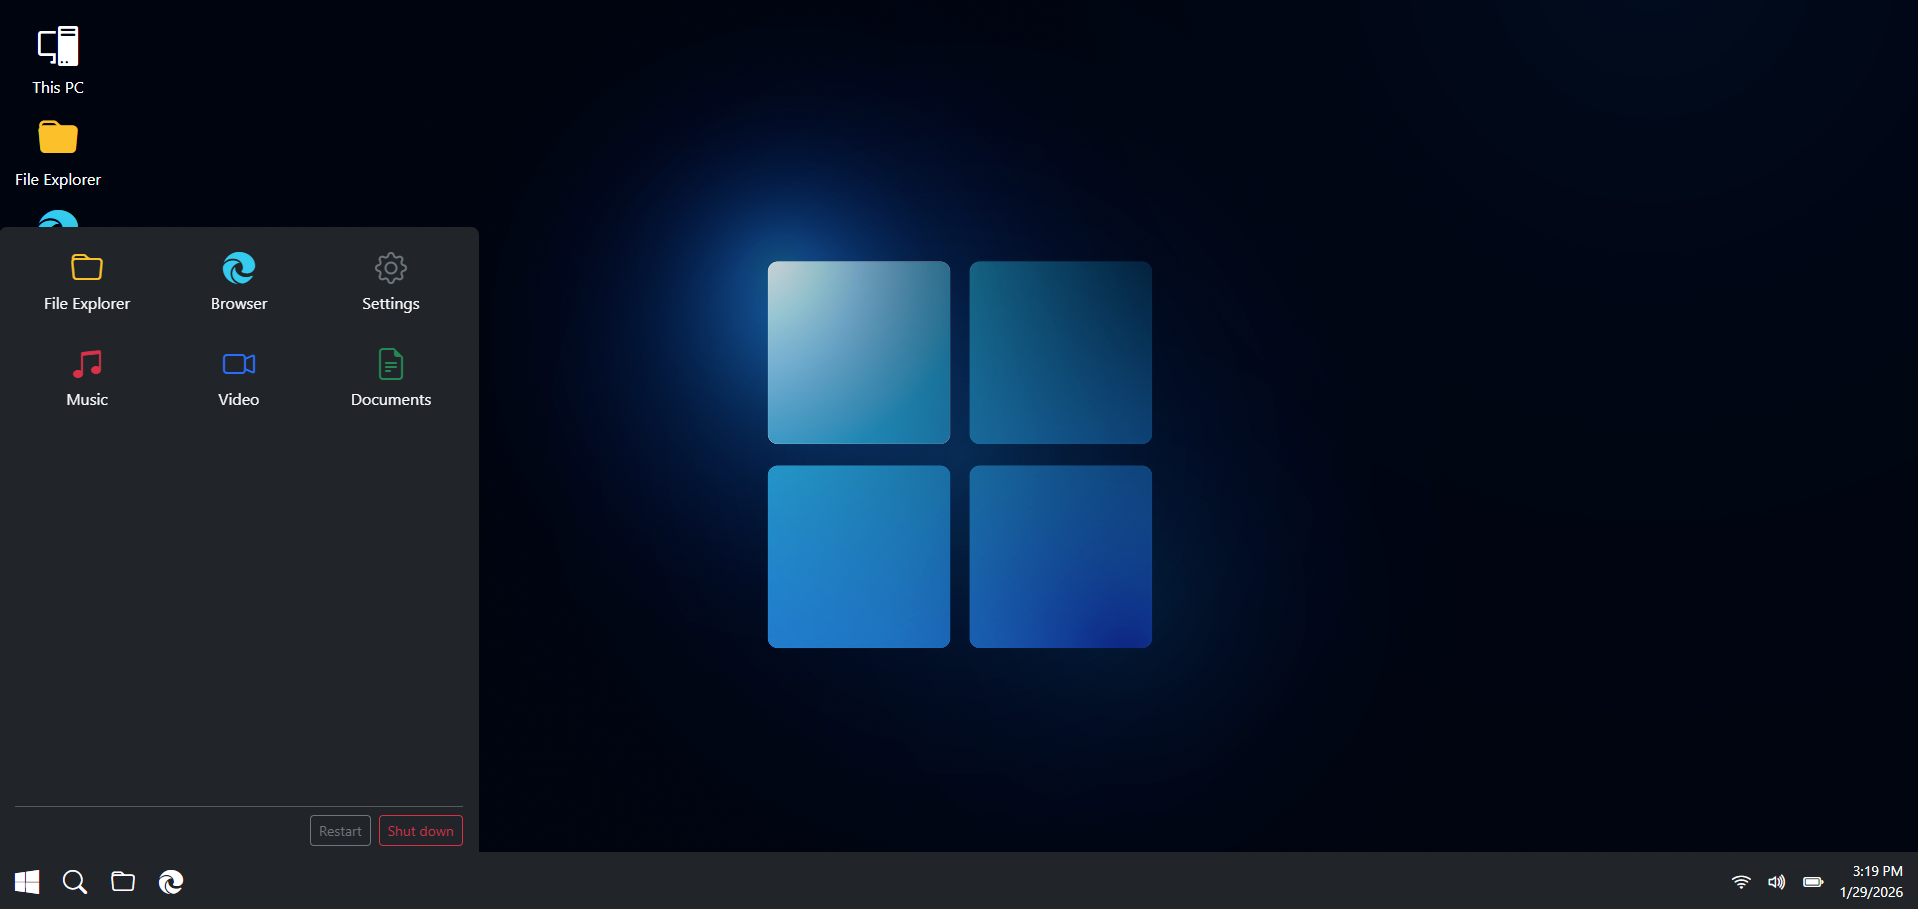
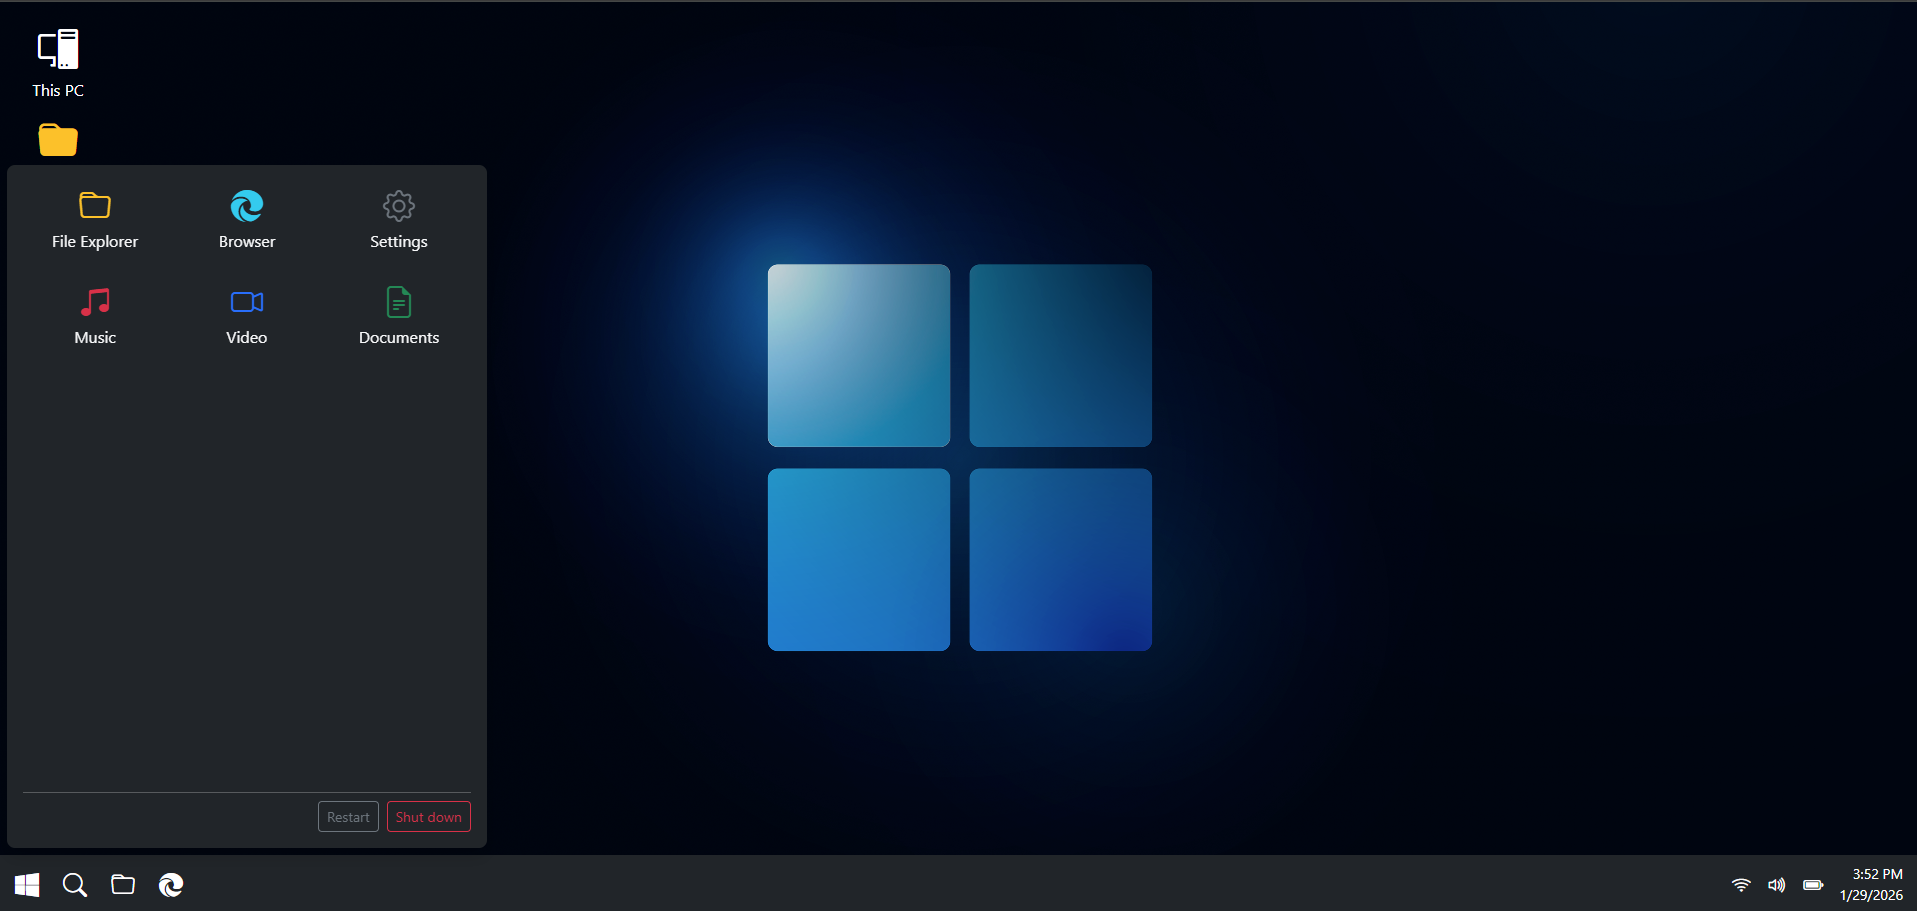
start ss added

diff --git a/index.html b/index.html
@@ -11,20 +11,20 @@
 
 <body style="user-select: none;">
 <div id="desktop"></div>
-<div id="startMenu"></div>
 <div id="taskbar"></div>
+<div id="startMenu"></div>
 <div id="windows"></div>
 
 <script src="https://code.jquery.com/jquery-3.7.1.min.js"></script>
 <script src="assets/scripts/click.js"></script>
-<script src="assets/scripts/start.js"></script>
 <script src="assets/scripts/taskbar.js"></script>
+<script src="assets/scripts/start.js"></script>
 <script src="assets/scripts/browser.js"></script>
 <script src="assets/scripts/music.js"></script>
 <script>
     $("#desktop").load("components/desktop.html");
-    $("#startMenu").load("components/start.html");
     $("#taskbar").load("components/taskbar.html");
+    $("#startMenu").load("components/start.html");
 
     $("#windows").load("components/thisPC.html", function () {
         $("#windows").append($("<div>").load("components/fileExplorer.html"));

diff --git a/components/start.html b/components/start.html
@@ -1,5 +1,5 @@
-<div id="start"
-     class="position-fixed bottom-0 start-0 bg-dark text-light shadow rounded-3 p-3 d-none w-25 h-75 d-flex flex-column justify-content-between">
+<div id="start" style="margin-bottom: 65px;"
+     class="position-fixed bottom-0 start-0 bg-dark text-light shadow rounded-3 p-3 d-none w-25 h-75 d-flex flex-column justify-content-between ms-2">
     <div class="row text-center g-2">
 
         <div class="col app-launch" data-app="explorer">
@@ -35,7 +35,7 @@
         </div>
     </div>
 
-    <div class="mt-auto mb-5">
+    <div class="mt-auto">
         <hr class="my-2">
         <div class="d-flex justify-content-end gap-2">
             <button class="btn btn-sm btn-outline-secondary">Restart</button>

diff --git a/assets/scripts/start.js b/assets/scripts/start.js
@@ -1,9 +1,10 @@
+// open
 $(document).on("click", "#startBtn", function (e) {
     e.stopPropagation();
-    $("#start").toggleClass("d-none");
+    $("#start").css("z-index", 99999).toggleClass("d-none");
 });
 
-// click outside to close
+// close
 $(document).on("click", function (e) {
     if (!$(e.target).closest("#start, #startBtn").length) {
         $("#start").addClass("d-none");
